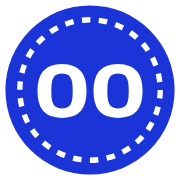
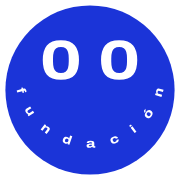
La cara pasa a ser el logotipo de la web
Cabecera, pie, pagina de gracias, favicon, icono de movil e imagen
para compartir. Los logotipos incrustados se sustituyen por una imagen
enlazada, asi que el HTML adelgaza y hay una sola fuente del logo.

diff --git a/index.html b/index.html
@@ -137,6 +137,7 @@ header{
 }
 .bar{display:flex;align-items:center;justify-content:space-between;gap:1rem;padding-block:.7rem}
 .brand{display:flex;align-items:center;gap:.6rem;text-decoration:none}
+.logo{display:block;width:36px;height:36px;flex:none}
 .brand-name{
   font-family:"Archivo",Arial,sans-serif;font-variation-settings:"wdth" 112;
   font-weight:800;font-size:.82rem;letter-spacing:.02em;text-transform:uppercase;
@@ -423,14 +424,7 @@ footer{border-top:1.5px solid var(--hair);padding-block:clamp(2.5rem,5vw,4rem)}
 <header>
   <div class="wrap bar">
     <a class="brand" href="#top">
-      <svg width="30" height="30" viewBox="0 0 200 200" aria-hidden="true">
-        <circle cx="100" cy="100" r="94" fill="#1B34D8"/>
-        <circle cx="100" cy="100" r="78" fill="none" stroke="#FFFFFF" stroke-width="6" stroke-dasharray="9.42 9.42"/>
-        <g fill="#FFFFFF" transform="translate(37.756 130)">
-        <path transform="translate(0.000 0) scale(0.084000 -0.084000)" d="M371.08216774463654 -12Q281.9642217159271 -12 219.86488556861877 11.918920576572418Q157.76554942131042 35.837841153144836 119.39453560113907 81.84115010499954Q81.02352178096771 127.84445905685425 63.559250593185425 193.69670748710632Q46.09497940540314 259.5489559173584 46.09497940540314 343.8721545934677Q46.09497940540314 428.195353269577 63.559250593185425 494.0476016998291Q81.02352178096771 559.8998501300812 119.03455024957657 605.738810300827Q157.04557871818542 651.5777704715729 219.14491486549377 675.4966910481453Q281.2442510128021 699.4156116247177 370.36219704151154 699.4156116247177Q459.63232696056366 699.4156116247177 521.5916484594345 675.4966910481453Q583.5509699583054 651.5777704715729 621.8458918333054 605.738810300827Q660.1408137083054 559.8998501300812 677.6050848960876 494.0476016998291Q695.0693560838699 428.195353269577 695.0693560838699 343.8721545934677Q695.0693560838699 259.5489559173584 677.6050848960876 193.69670748710632Q660.1408137083054 127.84445905685425 622.2058771848679 81.84115010499954Q584.2709406614304 35.837841153144836 522.3116191625595 11.918920576572418Q460.35229766368866 -12 371.08216774463654 -12ZM371.08216774463654 111.66951787471771Q424.0663073062897 111.66951787471771 454.7613596320152 134.26740956306458Q485.4564119577408 156.86530125141144 498.68893551826477 202.52845406532288Q511.92145907878876 248.1916068792343 511.92145907878876 317.32481467723846V371.5628137588501Q511.92145907878876 441.10389626026154 498.68893551826477 486.4588171839714Q485.4564119577408 531.8137381076813 454.7613596320152 553.9755524992943Q424.0663073062897 576.1373668909073 371.08216774463654 576.1373668909073Q318.9458442926407 576.1373668909073 287.76296120882034 553.9755524992943Q256.580078125 531.8137381076813 243.075826048851 486.5866625905037Q229.57157397270203 441.3595870733261 229.57157397270203 371.94634997844696V317.7083508968353Q229.57157397270203 248.4472976922989 243.075826048851 202.65629947185516Q256.580078125 156.86530125141144 287.76296120882034 134.26740956306458Q318.9458442926407 111.66951787471771 371.08216774463654 111.66951787471771Z"/>
-        <path transform="translate(62.244 0) scale(0.084000 -0.084000)" d="M371.08216774463654 -12Q281.9642217159271 -12 219.86488556861877 11.918920576572418Q157.76554942131042 35.837841153144836 119.39453560113907 81.84115010499954Q81.02352178096771 127.84445905685425 63.559250593185425 193.69670748710632Q46.09497940540314 259.5489559173584 46.09497940540314 343.8721545934677Q46.09497940540314 428.195353269577 63.559250593185425 494.0476016998291Q81.02352178096771 559.8998501300812 119.03455024957657 605.738810300827Q157.04557871818542 651.5777704715729 219.14491486549377 675.4966910481453Q281.2442510128021 699.4156116247177 370.36219704151154 699.4156116247177Q459.63232696056366 699.4156116247177 521.5916484594345 675.4966910481453Q583.5509699583054 651.5777704715729 621.8458918333054 605.738810300827Q660.1408137083054 559.8998501300812 677.6050848960876 494.0476016998291Q695.0693560838699 428.195353269577 695.0693560838699 343.8721545934677Q695.0693560838699 259.5489559173584 677.6050848960876 193.69670748710632Q660.1408137083054 127.84445905685425 622.2058771848679 81.84115010499954Q584.2709406614304 35.837841153144836 522.3116191625595 11.918920576572418Q460.35229766368866 -12 371.08216774463654 -12ZM371.08216774463654 111.66951787471771Q424.0663073062897 111.66951787471771 454.7613596320152 134.26740956306458Q485.4564119577408 156.86530125141144 498.68893551826477 202.52845406532288Q511.92145907878876 248.1916068792343 511.92145907878876 317.32481467723846V371.5628137588501Q511.92145907878876 441.10389626026154 498.68893551826477 486.4588171839714Q485.4564119577408 531.8137381076813 454.7613596320152 553.9755524992943Q424.0663073062897 576.1373668909073 371.08216774463654 576.1373668909073Q318.9458442926407 576.1373668909073 287.76296120882034 553.9755524992943Q256.580078125 531.8137381076813 243.075826048851 486.5866625905037Q229.57157397270203 441.3595870733261 229.57157397270203 371.94634997844696V317.7083508968353Q229.57157397270203 248.4472976922989 243.075826048851 202.65629947185516Q256.580078125 156.86530125141144 287.76296120882034 134.26740956306458Q318.9458442926407 111.66951787471771 371.08216774463654 111.66951787471771Z"/>
-        </g>
-      </svg>
+      <img class="logo" src="/logo.svg" alt="" width="36" height="36">
       <span class="brand-name">Fundación 00</span>
     </a>
     <nav class="nav">
@@ -803,14 +797,7 @@ footer{border-top:1.5px solid var(--hair);padding-block:clamp(2.5rem,5vw,4rem)}
     <div class="foot-grid">
       <div>
         <a class="brand" href="#top" style="margin-bottom:.9rem">
-          <svg width="30" height="30" viewBox="0 0 200 200" aria-hidden="true">
-            <circle cx="100" cy="100" r="94" fill="#1B34D8"/>
-            <circle cx="100" cy="100" r="78" fill="none" stroke="#FFFFFF" stroke-width="6" stroke-dasharray="9.42 9.42"/>
-            <g fill="#FFFFFF" transform="translate(37.756 130)">
-            <path transform="translate(0.000 0) scale(0.084000 -0.084000)" d="M371.08216774463654 -12Q281.9642217159271 -12 219.86488556861877 11.918920576572418Q157.76554942131042 35.837841153144836 119.39453560113907 81.84115010499954Q81.02352178096771 127.84445905685425 63.559250593185425 193.69670748710632Q46.09497940540314 259.5489559173584 46.09497940540314 343.8721545934677Q46.09497940540314 428.195353269577 63.559250593185425 494.0476016998291Q81.02352178096771 559.8998501300812 119.03455024957657 605.738810300827Q157.04557871818542 651.5777704715729 219.14491486549377 675.4966910481453Q281.2442510128021 699.4156116247177 370.36219704151154 699.4156116247177Q459.63232696056366 699.4156116247177 521.5916484594345 675.4966910481453Q583.5509699583054 651.5777704715729 621.8458918333054 605.738810300827Q660.1408137083054 559.8998501300812 677.6050848960876 494.0476016998291Q695.0693560838699 428.195353269577 695.0693560838699 343.8721545934677Q695.0693560838699 259.5489559173584 677.6050848960876 193.69670748710632Q660.1408137083054 127.84445905685425 622.2058771848679 81.84115010499954Q584.2709406614304 35.837841153144836 522.3116191625595 11.918920576572418Q460.35229766368866 -12 371.08216774463654 -12ZM371.08216774463654 111.66951787471771Q424.0663073062897 111.66951787471771 454.7613596320152 134.26740956306458Q485.4564119577408 156.86530125141144 498.68893551826477 202.52845406532288Q511.92145907878876 248.1916068792343 511.92145907878876 317.32481467723846V371.5628137588501Q511.92145907878876 441.10389626026154 498.68893551826477 486.4588171839714Q485.4564119577408 531.8137381076813 454.7613596320152 553.9755524992943Q424.0663073062897 576.1373668909073 371.08216774463654 576.1373668909073Q318.9458442926407 576.1373668909073 287.76296120882034 553.9755524992943Q256.580078125 531.8137381076813 243.075826048851 486.5866625905037Q229.57157397270203 441.3595870733261 229.57157397270203 371.94634997844696V317.7083508968353Q229.57157397270203 248.4472976922989 243.075826048851 202.65629947185516Q256.580078125 156.86530125141144 287.76296120882034 134.26740956306458Q318.9458442926407 111.66951787471771 371.08216774463654 111.66951787471771Z"/>
-            <path transform="translate(62.244 0) scale(0.084000 -0.084000)" d="M371.08216774463654 -12Q281.9642217159271 -12 219.86488556861877 11.918920576572418Q157.76554942131042 35.837841153144836 119.39453560113907 81.84115010499954Q81.02352178096771 127.84445905685425 63.559250593185425 193.69670748710632Q46.09497940540314 259.5489559173584 46.09497940540314 343.8721545934677Q46.09497940540314 428.195353269577 63.559250593185425 494.0476016998291Q81.02352178096771 559.8998501300812 119.03455024957657 605.738810300827Q157.04557871818542 651.5777704715729 219.14491486549377 675.4966910481453Q281.2442510128021 699.4156116247177 370.36219704151154 699.4156116247177Q459.63232696056366 699.4156116247177 521.5916484594345 675.4966910481453Q583.5509699583054 651.5777704715729 621.8458918333054 605.738810300827Q660.1408137083054 559.8998501300812 677.6050848960876 494.0476016998291Q695.0693560838699 428.195353269577 695.0693560838699 343.8721545934677Q695.0693560838699 259.5489559173584 677.6050848960876 193.69670748710632Q660.1408137083054 127.84445905685425 622.2058771848679 81.84115010499954Q584.2709406614304 35.837841153144836 522.3116191625595 11.918920576572418Q460.35229766368866 -12 371.08216774463654 -12ZM371.08216774463654 111.66951787471771Q424.0663073062897 111.66951787471771 454.7613596320152 134.26740956306458Q485.4564119577408 156.86530125141144 498.68893551826477 202.52845406532288Q511.92145907878876 248.1916068792343 511.92145907878876 317.32481467723846V371.5628137588501Q511.92145907878876 441.10389626026154 498.68893551826477 486.4588171839714Q485.4564119577408 531.8137381076813 454.7613596320152 553.9755524992943Q424.0663073062897 576.1373668909073 371.08216774463654 576.1373668909073Q318.9458442926407 576.1373668909073 287.76296120882034 553.9755524992943Q256.580078125 531.8137381076813 243.075826048851 486.5866625905037Q229.57157397270203 441.3595870733261 229.57157397270203 371.94634997844696V317.7083508968353Q229.57157397270203 248.4472976922989 243.075826048851 202.65629947185516Q256.580078125 156.86530125141144 287.76296120882034 134.26740956306458Q318.9458442926407 111.66951787471771 371.08216774463654 111.66951787471771Z"/>
-            </g>
-          </svg>
+          <img class="logo" src="/logo.svg" alt="" width="36" height="36">
           <span class="brand-name">Fundación 00</span>
         </a>
         <p style="font-size:.95rem;color:var(--ink-2);max-width:40ch">Ayuda a otros ayudándote a ti mismo. Bilbao.</p>

diff --git a/gracias.html b/gracias.html
@@ -54,7 +54,7 @@ p.big{font-size:1.12rem;color:var(--ink)}
 }
 .btn:hover{background:var(--ink);border-color:var(--ink);color:var(--paper)}
 .btn:focus-visible,a:focus-visible{outline:2px solid var(--blue);outline-offset:3px}
-.cap{width:64px;height:64px;display:block}
+.cap{width:72px;height:72px;display:block}
 .next{
   margin-top:2.6rem;border:1.5px solid var(--line);border-radius:2px;padding:1.1rem 1.2rem;
   font-family:"DM Mono",monospace;font-size:.74rem;line-height:1.8;color:var(--ink-2);
@@ -69,14 +69,7 @@ a.mail{color:var(--blue)}
 </head>
 <body>
   <div class="box">
-    <svg class="cap" viewBox="0 0 100 100" aria-hidden="true">
-      <circle cx="50" cy="50" r="49" fill="#1B34D8"/>
-      <circle cx="50" cy="50" r="41" fill="none" stroke="#FFFFFF" stroke-width="3.4" stroke-dasharray="7 7"/>
-      <g fill="none" stroke="#FFFFFF" stroke-width="9">
-        <ellipse cx="35" cy="50" rx="10.5" ry="16"/>
-        <ellipse cx="65" cy="50" rx="10.5" ry="16"/>
-      </g>
-    </svg>
+    <img class="cap" src="/logo.svg" alt="" width="72" height="72">
     <p class="mono" style="margin-top:1.6rem">Fundación 00 · Solicitud recibida</p>
     <h1>Ya está.<br>Te llamamos.</h1>
     <p class="big">En los próximos días te llamamos para conocernos y contarte cómo va a ser el mes. Es una conversación tranquila, no un examen.</p>
